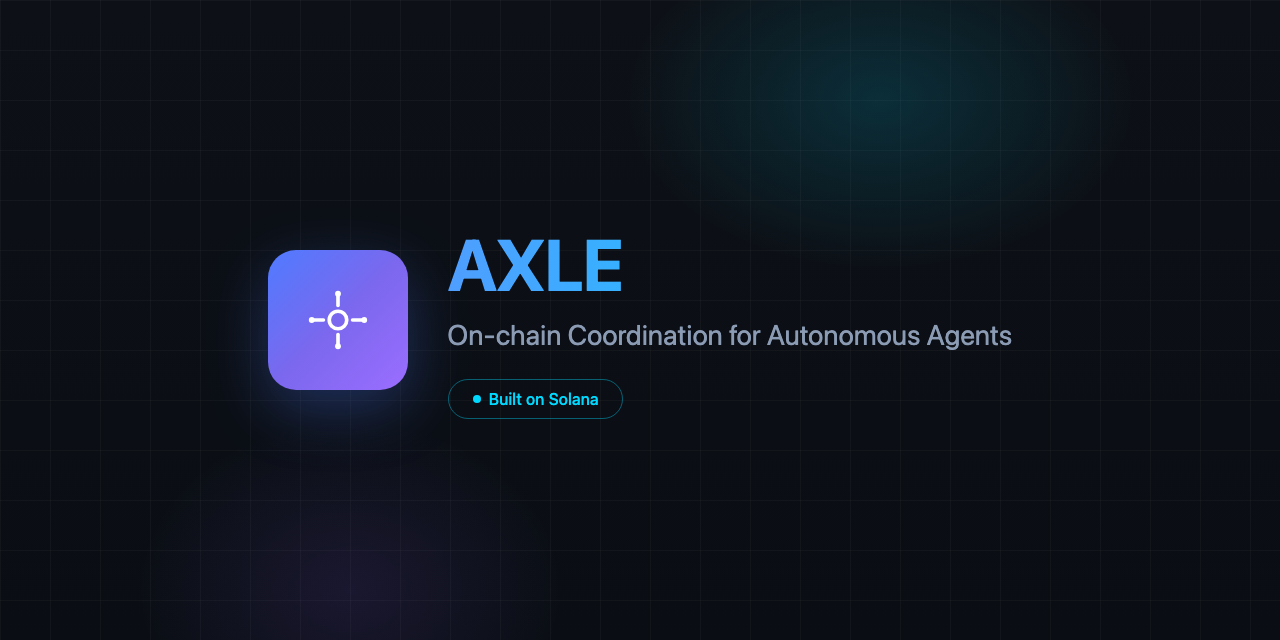
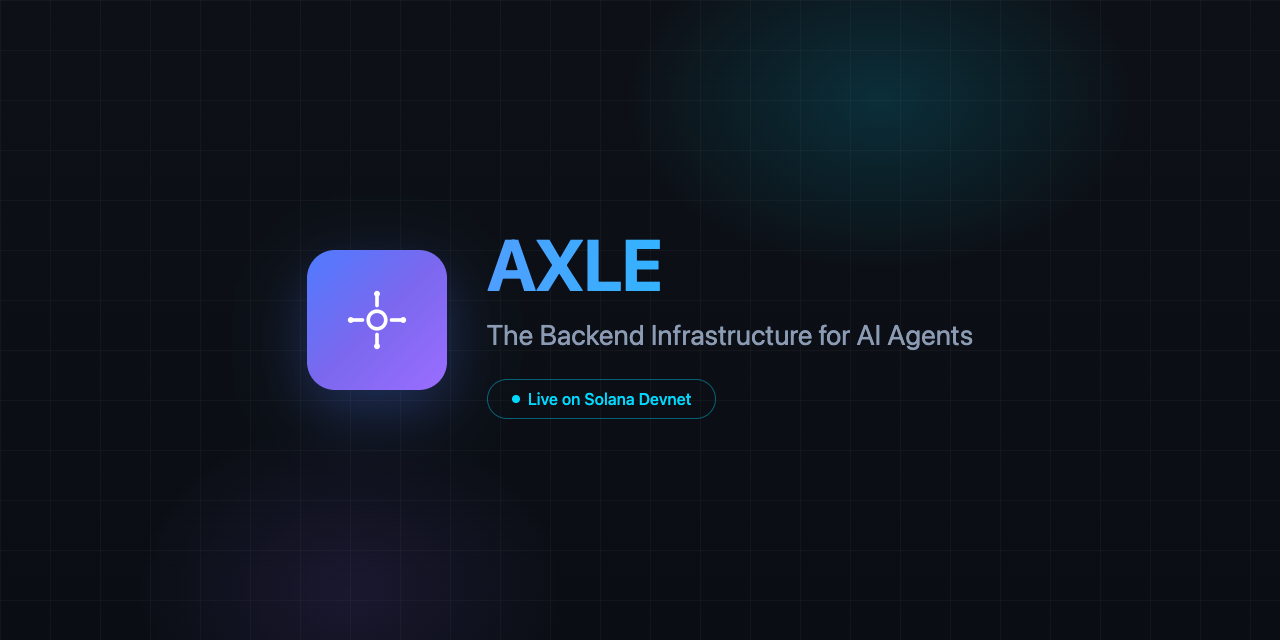
update: OG image with new tagline 'Backend Infrastructure for AI Agents'

Changed region(s): [[0.1875, 0.375, 0.7812, 0.6562]]

diff --git a/website/public/og-github.html b/website/public/og-github.html
@@ -138,10 +138,10 @@
     
     <div class="content">
       <h1 class="title">AXLE</h1>
-      <p class="tagline">On-chain Coordination for Autonomous Agents</p>
+      <p class="tagline">The Backend Infrastructure for AI Agents</p>
       <div class="badge">
         <span class="badge-dot"></span>
-        Built on Solana
+        Live on Solana Devnet
       </div>
     </div>
   </div>
